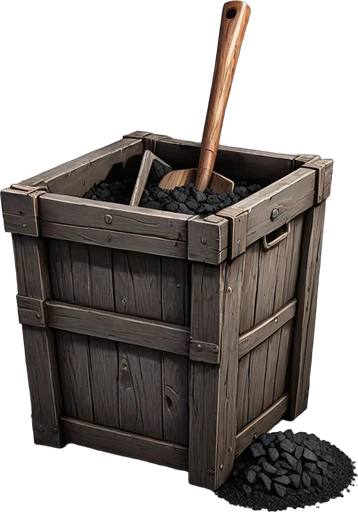
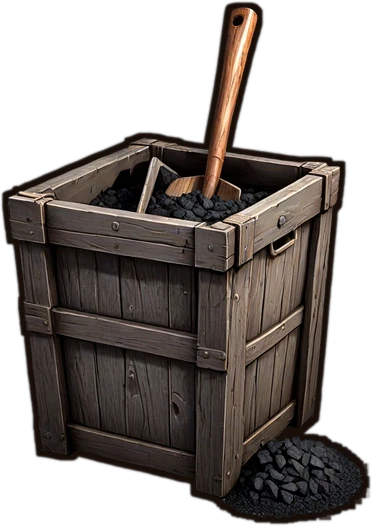
WIP smithy: edge-to-edge room camera, outlined parts, full-width walls (not pushed: Verdantia 390px e2e needs update)
Claude-Session: https://claude.ai/code/session_01NQGXpQc6YEdw4PvKeRNkrU

Changed region(s): [[0.0, 0.0, 1.0, 1.0]]

diff --git a/e2e/city.spec.ts b/e2e/city.spec.ts
@@ -5,18 +5,37 @@ import { VERDANT_CITY } from "../src/game/city/verdantia";
 
 async function clickPoint(page: Page, x: number, y: number) {
   const canvas = page.locator(".ki-canvas");
-  const point = await canvas.evaluate(
-    (el, p) => {
-      const e = el as HTMLElement,
-        b = e.getBoundingClientRect(),
-        z = Number(e.dataset["cameraZoom"] ?? e.dataset["zoom"]);
-      return {
-        x: b.x + (p.x - Number(e.dataset["cameraX"]) - b.width / 2) * z + b.width / 2,
-        y: b.y + (p.y - Number(e.dataset["cameraY"]) - b.height / 2) * z + b.height / 2,
-      };
-    },
-    { x, y },
-  );
+  const locate = () =>
+    canvas.evaluate(
+      (el, p) => {
+        const e = el as HTMLElement,
+          b = e.getBoundingClientRect(),
+          z = Number(e.dataset["cameraZoom"] ?? e.dataset["zoom"]);
+        return {
+          x: b.x + (p.x - Number(e.dataset["cameraX"]) - b.width / 2) * z + b.width / 2,
+          y: b.y + (p.y - Number(e.dataset["cameraY"]) - b.height / 2) * z + b.height / 2,
+          w: b.width,
+          h: b.height,
+          top: b.y,
+        };
+      },
+      { x, y },
+    );
+  // Rooms cover the whole screen and the camera follows the hero: walk until the target is on screen.
+  let point = await locate();
+  for (let i = 0; i < 14; i++) {
+    const keys: string[] = [];
+    if (point.x < 20) keys.push("ArrowLeft");
+    if (point.x > point.w - 20) keys.push("ArrowRight");
+    if (point.y < point.top + 230) keys.push("ArrowUp");
+    if (point.y > point.top + point.h - 120) keys.push("ArrowDown");
+    if (!keys.length) break;
+    for (const k of keys) await page.keyboard.down(k);
+    await page.waitForTimeout(350);
+    for (const k of keys) await page.keyboard.up(k);
+    await page.waitForTimeout(250);
+    point = await locate();
+  }
   await page.mouse.click(point.x, point.y);
 }
 async function building(page: Page, id: BuildingId) {

diff --git a/src/game/mountGame.ts b/src/game/mountGame.ts
@@ -210,19 +210,11 @@ export function mountKileGends(
         this.cameras.main.setZoom(clampZoom(Number(parent.dataset["zoom"] ?? DEFAULT_ZOOM)));
         if (session.player.interior) {
           const room = cityRoom(session.player.interior);
-          // A room fills the screen. Landscape fits the whole room; portrait zooms in and follows the hero.
-          const portrait = this.scale.height > this.scale.width * 1.15;
+          // A room covers the whole screen edge to edge (no margins); the camera follows the hero inside it.
           const cam = this.cameras.main;
-          if (portrait && this.hero) {
-            cam.setZoom(0.78).setBounds(0, 0, room.width, room.height);
-            cam.startFollow(this.hero.body, true, 0.12, 0.12);
-          } else {
-            cam.setZoom(
-              Math.min(this.scale.width / room.width, this.scale.height / room.height) * 1.02,
-            );
-            cam.stopFollow().removeBounds();
-            cam.centerOn(room.width / 2, room.height / 2);
-          }
+          cam.setZoom(Math.max(this.scale.width / room.width, this.scale.height / room.height));
+          cam.setBounds(0, 0, room.width, room.height);
+          if (this.hero) cam.startFollow(this.hero.body, true, 0.12, 0.12);
         }
       };
       zoom();

diff --git a/src/game/city/renderSmithy.ts b/src/game/city/renderSmithy.ts
@@ -36,11 +36,12 @@ export function renderSmithy(scene: Phaser.Scene, world: WorldDefinition, room: 
     objects.push(t);
   };
   tile("smithy-floor", 80, 82, 800, 632, -90000, 0xe3cdb8, 130);
-  tile("smithy-wall", 60, 0, 840, 175, WALL, 0xb89c88);
-  tile("smithy-wall", 60, 100, 40, 630, WALL, 0x8a7060);
-  tile("smithy-wall", 860, 100, 40, 630, WALL, 0x8a7060);
-  tile("smithy-wall", 60, 697, 350, 63, WALL, 0xa08a78);
-  tile("smithy-wall", 550, 697, 350, 63, WALL, 0xa08a78);
+  tile("smithy-wall", 0, 0, 960, 175, WALL, 0xb89c88);
+  tile("smithy-wall", 0, 100, 100, 660, WALL, 0x8a7060);
+  tile("smithy-wall", 860, 100, 100, 660, WALL, 0x8a7060);
+  tile("smithy-wall", 0, 697, 410, 63, WALL, 0xa08a78);
+  tile("smithy-wall", 550, 697, 410, 63, WALL, 0xa08a78);
+  objects.push(scene.add.rectangle(480, 728, 140, 63, 0x120b07).setDepth(WALL + 1));
   // Soft darkening where the wall meets the floor, so the room reads as a space with depth.
   const shade = scene.add.graphics().setDepth(WALL + 1);
   shade.fillGradientStyle(0x120804, 0x120804, 0x120804, 0x120804, 0.55, 0.55, 0, 0);

diff --git a/scripts/prepare_pyra_smithy.py b/scripts/prepare_pyra_smithy.py
@@ -7,7 +7,7 @@ The pack is previewOnly: opt in with ?ki-smithy-art=1 until the owner accepts it
 """
 import hashlib, json, sys
 from pathlib import Path
-from PIL import Image
+from PIL import Image, ImageEnhance, ImageFilter
 
 REPO = Path(__file__).resolve().parents[1]
 SRC = Path(sys.argv[1])
@@ -17,9 +17,28 @@ OBJ = ["anvil-stump", "furnace-fire", "chest-iron", "workbench-tools", "weapon-r
        "lantern-post", "banner-flame", "grindstone", "coal-bin", "stairs-wood", "door-arch", "sign-hanging"]
 TEX = {"floor": "tex-floor-flagstone", "wall": "tex-wall-dark-wood"}
 assets, binds, prov = [], {}, []
+
+
+def outline(im, px=5):
+    """Thick dark painted outline (the mockup look) plus a little more contrast and warmth in the part itself."""
+    rgb = ImageEnhance.Contrast(im.convert("RGB")).enhance(1.12)
+    rgb = ImageEnhance.Color(rgb).enhance(1.08)
+    a = im.getchannel("A")
+    pad = px + 2
+    canvas = Image.new("RGBA", (im.width + 2 * pad, im.height + 2 * pad), (0, 0, 0, 0))
+    big = Image.new("L", canvas.size, 0)
+    big.paste(a, (pad, pad))
+    grown = big.filter(ImageFilter.MaxFilter(2 * px + 1)).filter(ImageFilter.GaussianBlur(0.8))
+    dark = Image.new("RGBA", canvas.size, (24, 13, 8, 255))
+    canvas.paste(dark, (0, 0), grown)
+    body = Image.new("RGBA", canvas.size, (0, 0, 0, 0))
+    body.paste(Image.merge("RGBA", (*rgb.split(), a)), (pad, pad))
+    canvas.alpha_composite(body)
+    return canvas
+
 for name in OBJ:
     src = SRC / (name + ".png")
-    im = Image.open(src).convert("RGBA")
+    im = outline(Image.open(src).convert("RGBA"))
     f = OUT / ("pyra-smithy-%s.webp" % name)
     im.save(f, quality=90, method=6)
     assets.append({"id": "pyra-smithy-" + name, "version": "1.0.0", "kind": "image", "url": f.name, "width": im.width, "height": im.height})
